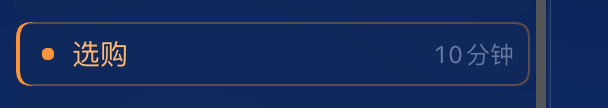
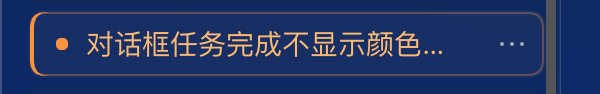
docs: 换成实际运行的截图（81% 进行中 / 橙色已完成）

Changed region(s): [[0.0, 0.0, 0.93, 1.0]]

diff --git a/README.md b/README.md
@@ -6,7 +6,7 @@
 [![platform](https://img.shields.io/badge/platform-web-34d399)](#)
 [![license](https://img.shields.io/badge/license-MIT-fb923c)](LICENSE)
 
-<img src="docs/running.png" width="604" alt="任务运行中：绿色卡片 + 行首百分比 + 进度条" />
+<img src="docs/running.png" width="532" alt="任务运行中：绿色卡片 + 行首百分比 + 进度条" />
 
 ---
 
@@ -25,17 +25,17 @@
 
 ### 运行中 —— 绿色卡片 + 实时进度
 
-<img src="docs/running.png" width="604" alt="运行中" />
+<img src="docs/running.png" width="532" alt="运行中" />
 
 - 整行转成绿色卡片（半透明绿底 + 1px 描边，和完成态是同一套骨架）。
-- **行首显示估算进度百分比**（`53%`），任务一开跑就出现。
+- **行首显示估算进度百分比**（`81%`），任务一开跑就出现。
 - 底部一条 **6px 高**的圆头进度条，行内专门给它留了 6px 高度，不会压到标题文字；底下一条更淡的浅绿轨道，里面青绿渐变填充，长度就是估算进度；条身上散着一层白色小点，以很慢的速度横向漂移（3.2s 走一个循环，纯装饰，不闪不跳）；末端一颗 6px 白色圆钮压在条头上，圆心正好落在进度末端，跟小滑块一样滑。
 - 行本身是浅绿描边 + 10% 透明底，标题转成淡绿。
 - **除了小点的缓慢漂移，没有别的循环动画**：不闪、不扫光、不呼吸、数字也不跳。安静但有生气。
 
 ### 已完成 —— 橙色卡片，一直在
 
-<img src="docs/done.png" width="608" alt="已完成" />
+<img src="docs/done.png" width="600" alt="已完成" />
 
 - 任务跑完的瞬间，整行从绿色切成橙色：橙色描边 + 左侧橙条 + 半透明橙底 + 标题橙字，行首一颗橙色小圆点。
 - **永久保留**，直到你点开这一行为止。点开即恢复原样；点行尾的「…」菜单**不算**点开，不会误清。
